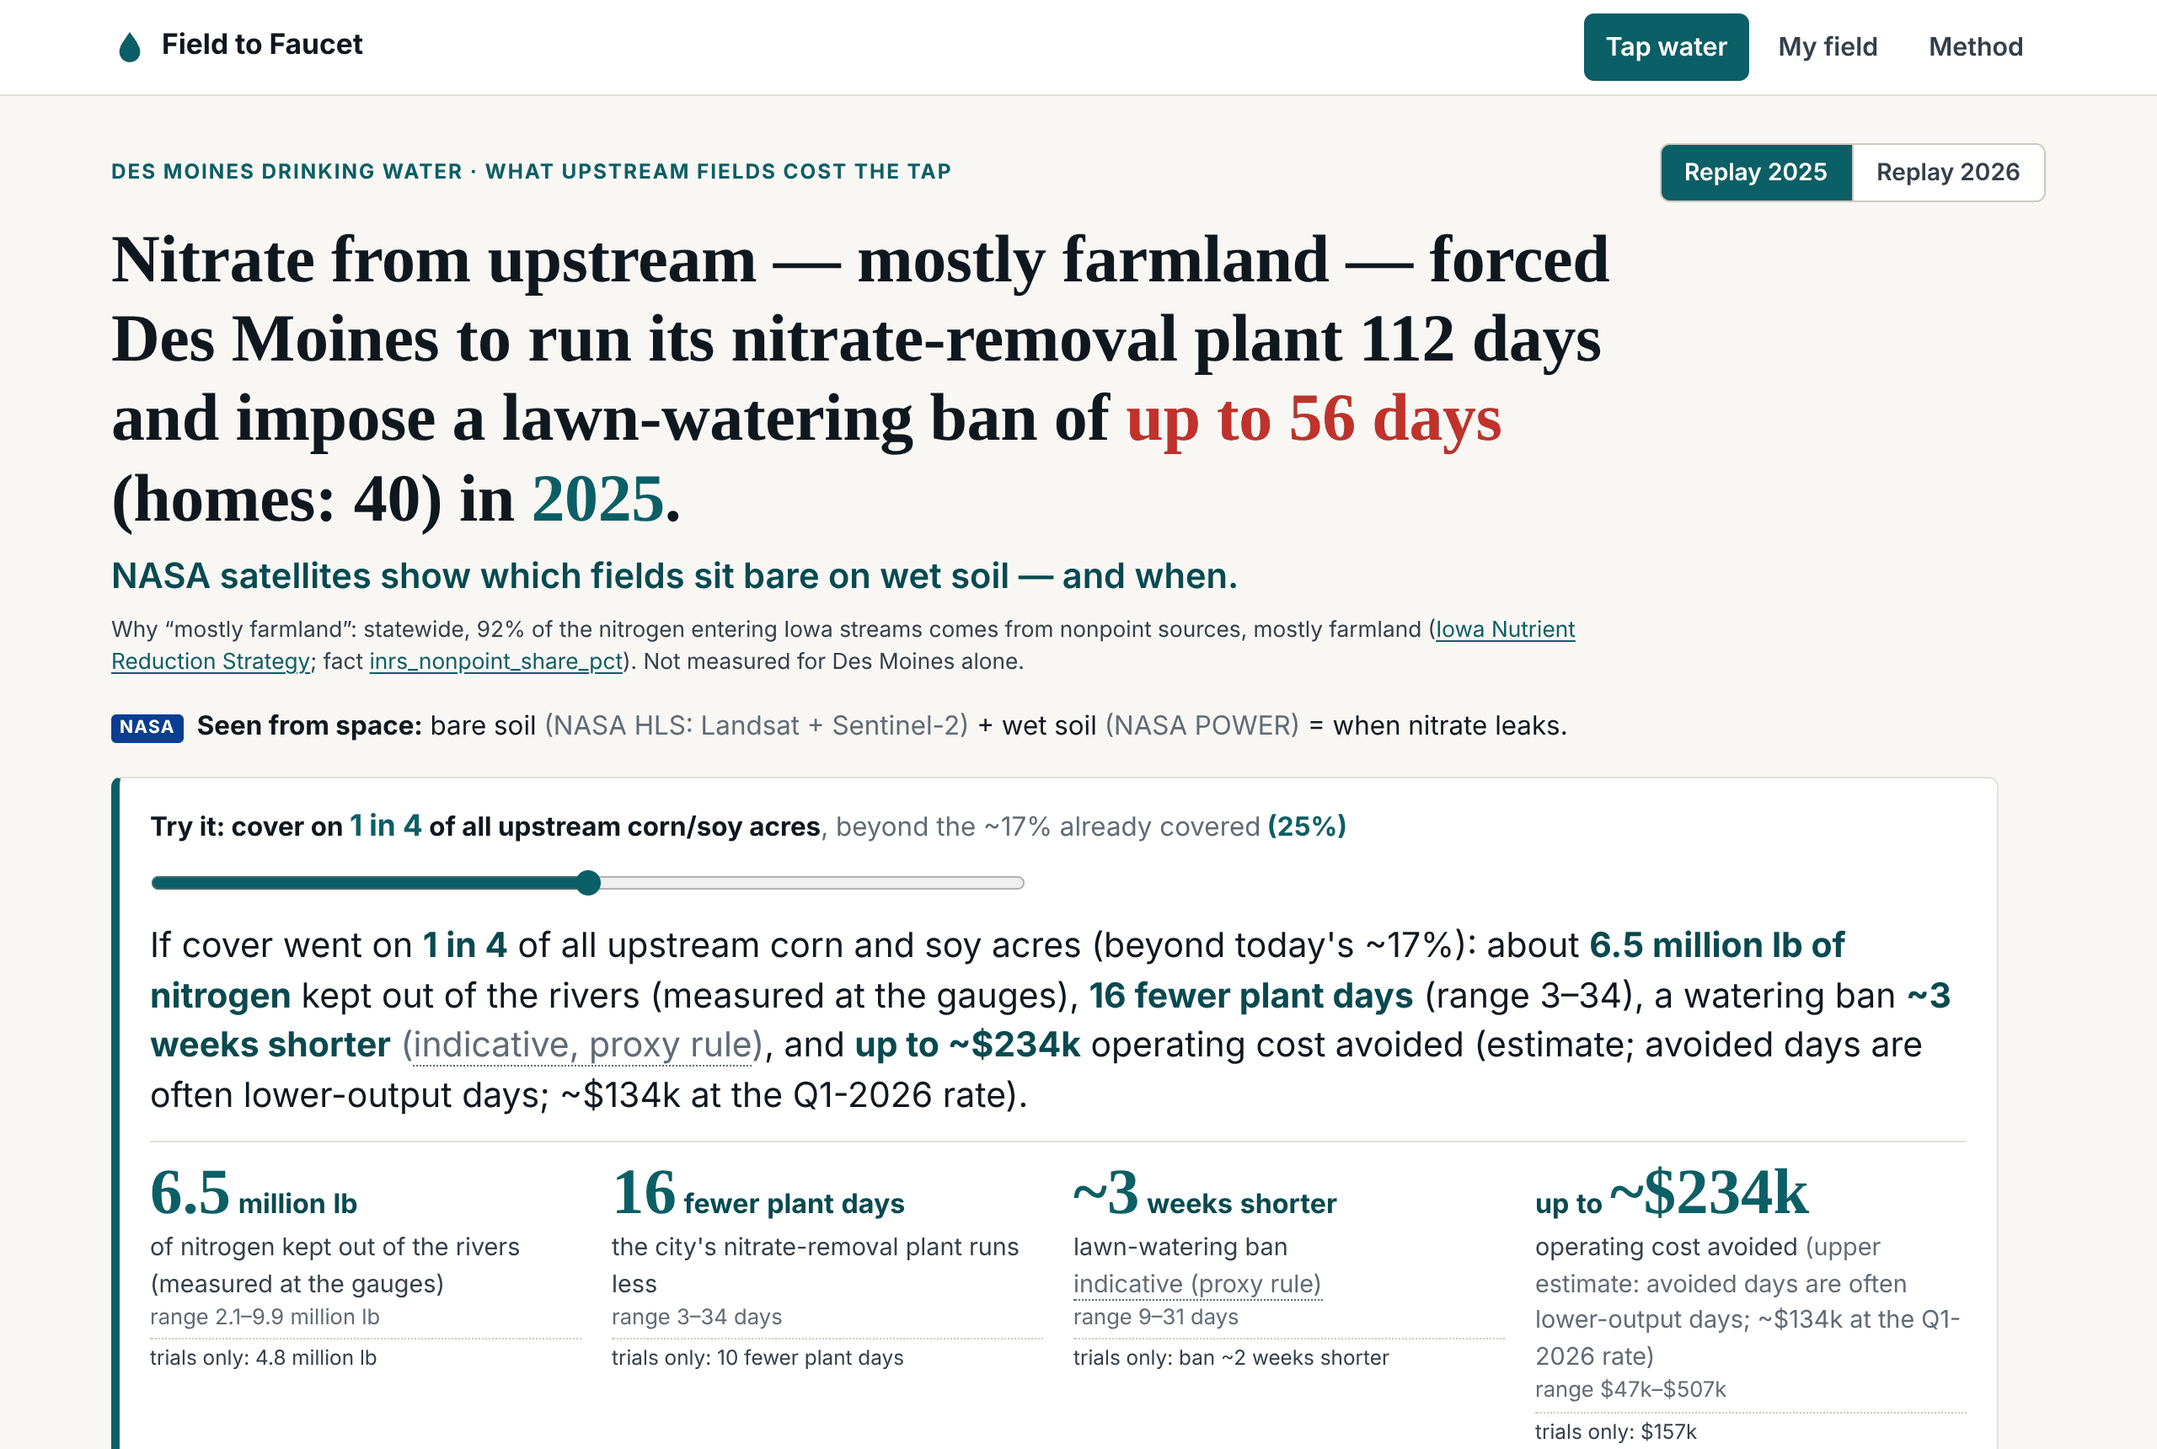
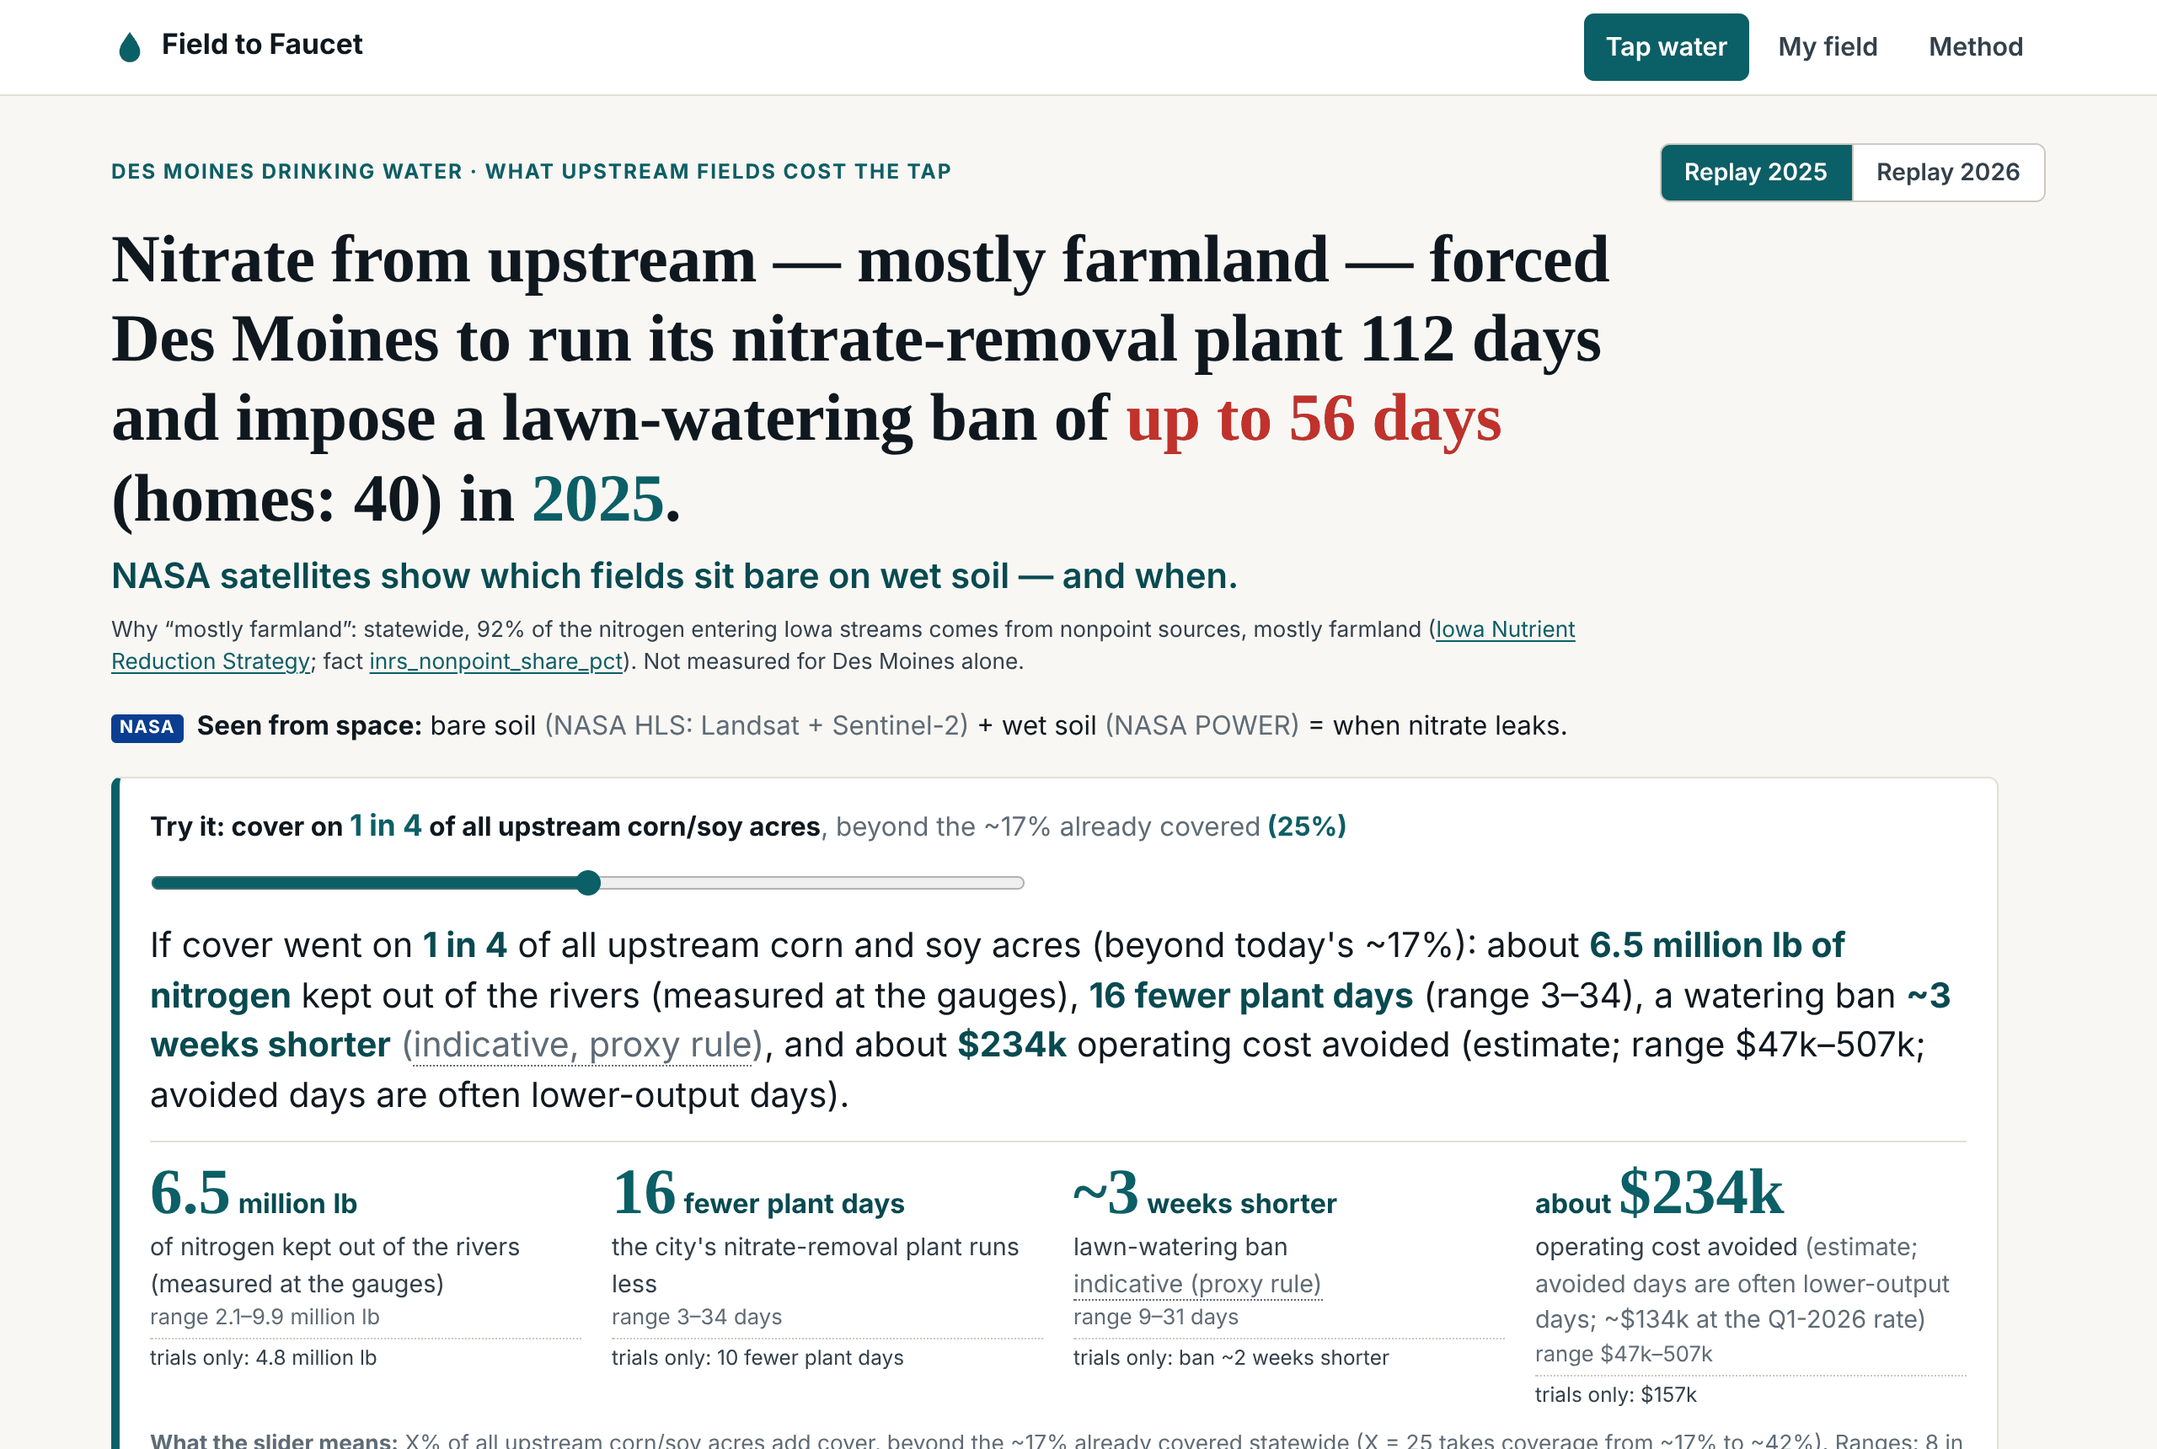
field-to-faucet: final app wording and sourcing fixes from fact-check; regenerated deck screenshots
Claude-Session: https://claude.ai/code/session_01LVZuX6hd4Dk1J7r7Sr4Bx5

Changed region(s): [[0.0625, 0.8012, 0.9062, 1.0], [0.0625, 0.7087, 0.9062, 0.7703]]

diff --git a/apps/field-to-faucet/web/js/city.js b/apps/field-to-faucet/web/js/city.js
@@ -116,6 +116,9 @@ const usdRange = (lo, hi) => {
   return ua === ub && /[kM]/.test(ua) ? `${a.slice(0, -1)}–${b.slice(1)}` : `${a}–${b}`;
 };
 
+// "$47k–507k": unit kept on both ends (avoided-cost ranges)
+const usdRangeK = (lo, hi) => { const a = usd(lo), b = usd(hi); return a === b ? a : `${a}–${b.replace(/^\$/, "")}`; };
+
 // Tooltip that also works on touch (focus) and with keyboard.
 function tip(text, body) {
   return `<span class="tip" tabindex="0">${text}<span class="tip-body" role="tooltip">${body}</span></span>`;
@@ -266,7 +269,7 @@ function renderImpact() {
     text.innerHTML = `Move the slider: what if more upstream corn and soy acres kept living roots over winter?`;
   } else {
     const pdN = Math.round(pd?.mid ?? 0);
-    text.innerHTML = `If cover went on <strong>${shareAsFreq(lvl.x)}</strong> of all upstream corn and soy acres${today != null ? ` (beyond today's ~${today}%)` : ""}: about <strong>${km.n} ${km.u} of nitrogen</strong> kept out of the rivers (measured at the gauges), <strong>${fmtInt(pdN)} fewer plant ${plural(pdN, "day")}</strong>${pd && rangeTxt(pd) ? ` (${rangeTxt(pd)})` : ""}, a watering ban <strong>${bs.n} ${bs.u} shorter</strong> <span class="muted">(${tip("indicative, proxy rule", banTip)})</span>, and <strong>up to ~${usd(cost?.mid)}</strong> operating cost avoided (estimate; avoided days are often lower-output days${costQ1 ? `; ~${usd(costQ1.mid)} at the Q1-2026 rate` : ""}).`;
+    text.innerHTML = `If cover went on <strong>${shareAsFreq(lvl.x)}</strong> of all upstream corn and soy acres${today != null ? ` (beyond today's ~${today}%)` : ""}: about <strong>${km.n} ${km.u} of nitrogen</strong> kept out of the rivers (measured at the gauges), <strong>${fmtInt(pdN)} fewer plant ${plural(pdN, "day")}</strong>${pd && rangeTxt(pd) ? ` (${rangeTxt(pd)})` : ""}, a watering ban <strong>${bs.n} ${bs.u} shorter</strong> <span class="muted">(${tip("indicative, proxy rule", banTip)})</span>, and about <strong>${usd(cost?.mid)}</strong> operating cost avoided (estimate${cost && Math.round(cost.lo) !== Math.round(cost.hi) ? `; range ${usdRangeK(cost.lo, cost.hi)}` : ""}; avoided days are often lower-output days).`;
   }
   const lbRange = (b) => (b && Math.round(b.lo) !== Math.round(b.hi) ? `range ${fmtLbRange(b.lo, b.hi)}` : "");
   const toTxt = {
@@ -279,7 +282,7 @@ function renderImpact() {
     { k: "lbN_kept", b: kept, v: `${km.n}<span class="itile-u"> ${km.u}</span>`, l: "of nitrogen kept out of the rivers (measured at the gauges)", r: lbRange(kept) },
     { k: "plant_days", b: pd, v: `${fmtInt(pd?.mid)}<span class="itile-u"> fewer plant ${plural(pd?.mid ?? 0, "day")}</span>`, l: "the city's nitrate-removal plant runs less", r: rangeTxt(pd) ? `${rangeTxt(pd)} days` : "" },
     { k: "ban_days", b: ban, v: `${bs.n}<span class="itile-u"> ${bs.u} shorter</span>`, l: `lawn-watering ban ${banLabel}`, r: rangeTxt(ban) ? `${rangeTxt(ban)} days` : "" },
-    { k: "cost_usd", b: cost, v: lvl.x > 0 ? `<span class="itile-u">up to </span>~${usd(cost?.mid)}` : usd(cost?.mid), l: `operating cost avoided <span class="muted">(upper estimate: avoided days are often lower-output days${costQ1 && lvl.x > 0 ? `; ~${usd(costQ1.mid)} at the Q1-2026 rate` : ""})</span>`, r: cost ? rangeTxt(cost, usd) : "" },
+    { k: "cost_usd", b: cost, v: lvl.x > 0 ? `<span class="itile-u">about </span>${usd(cost?.mid)}` : usd(cost?.mid), l: `operating cost avoided <span class="muted">(estimate; avoided days are often lower-output days${costQ1 && lvl.x > 0 ? `; ~${usd(costQ1.mid)} at the Q1-2026 rate` : ""})</span>`, r: cost && rangeTxt(cost) ? `range ${usdRangeK(cost.lo, cost.hi)}` : "" },
   ];
   const zero = lvl.x === 0;
   tiles.innerHTML = t.map((x) => {
@@ -295,7 +298,7 @@ function renderImpact() {
   fine.innerHTML = [
     xd ? `<strong>What the slider means:</strong> ${esc(xd)}${/[.!?]$/.test(xd.trim()) ? "" : "."}` : "",
     `Ranges: 8 in 10${isNum(nDraws) ? ` of ${fmtInt(nDraws)}` : ""} simulations${anyTrials ? "; “trials only” = Iowa field-trial evidence alone, without our satellite-trained river model" : ""}.`,
-    `$ = operating cost only${cpd ? ` (plant days × ~${usd(cpd.lo)}–${usd(cpd.hi)} a day: 2025 O&M per run day to full capacity)` : ""}, an upper estimate because the days avoided are often partial-output days${th.cost_per_plant_day_q1_2026?.value ? ` (CIWW's Q1-2026 average was ~${usd(th.cost_per_plant_day_q1_2026.value)} a day)` : ""}; capital is not avoided.`,
+    `$ = operating cost only${cpd ? ` (plant days × ~${usd(cpd.lo)}–${usd(cpd.hi)} a day: 2025 O&M per run day to full capacity)` : ""}; the days avoided are often partial-output days, so the true saving may be lower${th.cost_per_plant_day_q1_2026?.value ? ` (CIWW's Q1-2026 average was ~${usd(th.cost_per_plant_day_q1_2026.value)} a day)` : ""}; capital is not avoided.`,
     cover ? `Today about ${Math.round(cover.value)}% of Iowa corn and soy acres have cover (${link(cover.url, cover.source || "source")}).` : "",
     `NASA HLS sees winter cover on only ~${Math.round(hs.lo) === Math.round(hs.hi) ? fmtInt(hs.lo) : `${fmtInt(hs.lo)}–${fmtInt(hs.hi)}`}% of focus-area fields: a lower bound, because small or late-planted covers aren't visible from space.`,
     "The river may take more than one season to respond (nitrate stored in soils).",
@@ -339,7 +342,7 @@ function renderKpis() {
   const lede = document.getElementById("city-lede");
   const partial = obs.partial_year_through ? ` ${YEAR} is a partial year (data through ${fmtDate(parseDate(obs.partial_year_through))}).` : "";
   lede.innerHTML = isNum(obs.days_over10) && isNum(measured)
-    ? `In ${YEAR} the ${esc(gauge)} (upstream of the intake) was above the 10 mg/L drinking-water limit on ${fmtInt(obs.days_over10)} of ${fmtInt(measured)} measured days, ${naturalFreq(obs.days_over10, measured)}. That limit applies to drinking water: the utility treated the water so the tap met the standard.${partial} NASA satellites show when upstream fields sit bare on wet soil — when nitrate can wash out.`
+    ? `In ${YEAR} the ${esc(gauge)} (upstream of the intake) was above the 10 mg/L drinking-water limit on ${fmtInt(obs.days_over10)} of ${fmtInt(measured)} measured days, ${naturalFreq(obs.days_over10, measured)}.${partial} NASA satellites show when upstream fields sit bare on wet soil — when nitrate can wash out.`
     : "";
 }
 

diff --git a/apps/field-to-faucet/model/m08_export_web.py b/apps/field-to-faucet/model/m08_export_web.py
@@ -420,7 +420,7 @@ def export_meta(dm, river_end, scen, sizes):
              url="https://www.extension.iastate.edu/agdm/"),
     ]
     caveats = [
-        "The river model explains normal years well (test NSE about 0.6) but badly misses the 2025-26 level: rivers carried about twice the nitrate the drivers explain, likely legacy nitrate after the 2020-23 drought. Scenarios therefore change the MEASURED series by a relative amount; the model's absolute 2025 level is never used for impact counts.",
+        "The river model explains normal years well (test NSE about 0.6) but badly misses the 2025-26 level: rivers carried about twice the nitrate the drivers explain, one hypothesis: nitrate left over after the 2020-2023 drought. Scenarios therefore change the MEASURED series by a relative amount; the model's absolute 2025 level is never used for impact counts.",
         "Scenario effects combine Iowa field trials (cereal rye: 28% average cut, SD 26) with the learned river response to less bare soil, which is weakly identified because past cover changes were mostly seasonal. Ranges are 8 in 10 of the simulated outcomes.",
         "Legacy nitrate: a change on fields takes more than one season to show in the river.",
         "Cover-crop adoption is already about 17% of Iowa corn and soybean acres (statewide, secondary source); the slider adds acres on top, assuming adopters are typical fields.",

diff --git a/apps/field-to-faucet/notes/frontend.md b/apps/field-to-faucet/notes/frontend.md
@@ -42,14 +42,14 @@ First view (`#city`, network idle, uncompressed from `http.server`): 28 requests
   `Nitrate from upstream — mostly farmland — forced Des Moines to run its nitrate-removal plant [a record] N days [(Jan–Jul)] and impose a lawn-watering ban of up to 56 days (homes: 40) in 2025.` + second line `NASA satellites show which fields sit bare on wet soil — and when.`
   - 2026 (ban fact label names the business count): `… a record 193 days (Jan–Jul) and impose a lawn-watering ban of 23 days for homes, 42 for businesses, in 2026.` The run-month span comes from the plant fact's dates, partial years only.
   - Source note under the h1 (`#city-h-src`): "Why 'mostly farmland': statewide, 92% of the nitrogen entering Iowa streams comes from nonpoint sources, mostly farmland (INRS; fact inrs_nonpoint_share_pct). Not measured for Des Moines alone." Never attribute the plant days to "bare fields" directly.
-  - Gauge 05484500 is the Raccoon River at Van Meter, upstream of the intake: never "at the intake". The 10 mg/L limit is a drinking-water standard; the tap met it.
+  - Gauge 05484500 is the Raccoon River at Van Meter, upstream of the intake: never "at the intake". The 10 mg/L limit is a drinking-water standard. Do not claim the tap met it (no stored source).
 - **NASA one-liner** above the slider: "Seen from space: bare soil (NASA HLS: Landsat + Sentinel-2) + wet soil (NASA POWER) = when nitrate leaks."
-- **Impact card**: label "Try it: cover on 1 in 4 of all upstream corn/soy acres, beyond the ~17% already covered (25%)" (17% = fact `iowa_cover_share_pct`). Sentence and 4 tiles in this order: nitrogen "kept out of the rivers (measured at the gauges)" (`avoided.lbN_kept`; a gauge load, not on-field retention), plant days ("16 fewer plant days"), ban ("~3 weeks shorter", weeks when ≥ 10.5 days, otherwise days, pluralised), "up to ~$X" operating cost avoided (upper estimate: avoided days are often lower-output days; lower check `avoided.cost_usd_q1_2026_rate` at CIWW's Q1-2026 ~$8.4k/run day). Under each tile a "trials only: …" line from `levels[x].trials_only.avoided` when present. Ban label has the proxy-rule tooltip (clamped to the viewport by `initTips`). Fine print: `x_definition`, n_draws, $/day, today's cover, HLS winter-cover detection (~1–4% of focus-area fields, a lower bound; from `scenarios.hls_winter_cover_pct` / fact `hls_winter_cover_pct` if exported, else the fields-module rate), legacy-N lag. Sliders carry `aria-valuetext`; only `#impact-text` is `aria-live`.
+- **Impact card**: label "Try it: cover on 1 in 4 of all upstream corn/soy acres, beyond the ~17% already covered (25%)" (17% = fact `iowa_cover_share_pct`). Sentence and 4 tiles in this order: nitrogen "kept out of the rivers (measured at the gauges)" (`avoided.lbN_kept`; a gauge load, not on-field retention), plant days ("16 fewer plant days"), ban ("~3 weeks shorter", weeks when ≥ 10.5 days, otherwise days, pluralised), "about $X operating cost avoided (estimate; range $lo–hi)", with the note that avoided days are often lower-output days (tile adds the lower check `avoided.cost_usd_q1_2026_rate` at CIWW's Q1-2026 ~$8.4k/run day). Under each tile a "trials only: …" line from `levels[x].trials_only.avoided` when present. Ban label has the proxy-rule tooltip (clamped to the viewport by `initTips`). Fine print: `x_definition`, n_draws, $/day, today's cover, HLS winter-cover detection (~1–4% of focus-area fields, a lower bound; from `scenarios.hls_winter_cover_pct` / fact `hls_winter_cover_pct` if exported, else the fields-module rate), legacy-N lag. Sliders carry `aria-valuetext`; only `#impact-text` is `aria-live`.
 - **Year switch**: `Replay 2025 | Replay 2026` from `scenarios.replays` ∩ `by_year`; drives hero, KPIs, replay and the river "year" range.
 - **What NASA sees** strip (also on Farmer and Method): HLS, MODIS, NASA POWER (GWETROOT), GPM IMERG, NASADEM, matched by name in `meta.sources`, with links and `data_through`.
 - **KPI strip** ("The Y record, with sources"): days the Raccoon River at Van Meter (upstream of the intake) was above the 10 mg/L drinking-water limit (USGS link), plant days (fact link; 2026 "(Jan–Jul) — longest run on record (previous most: 177 days in 2015)"), cost ("incl. capital" with O&M/capital split; 2026 "$1.6–3.1M (estimate)" = 193 days × ~$8.4k (fact `plant_cost_per_day_2026_q1_usd`, $660k / 79 Q1 run days) to ~$16k/day), ban days (2025 "up to 56 (homes: 40)", 2026 "23 for homes, 42 for businesses"; links the `ban_days_Y` fact), people served.
 - **Replay chart**: "Measured, today's fields" = `replays[Y].obs` (base_kind observed); "With X% more living cover" = `by_level[x]`; teal fill between = "nitrate kept out of the river"; optional checkbox shows the scenario band `by_level_lo/hi`; 10 mg/L line. If a future export has `base_kind` ≠ observed, a dashed model baseline is added. Side tiles: days > 10 avoided (Raccoon, Des Moines), t N kept, lb N kept sentence.
-- **River chart**: display model per site from `river_series.sites[s].model.model` → `display_model` (river_series or validation); legend "Model v2 (+ drought carry-over), median". Above it the honest line, built from validation numbers (mean test NSE of v1 `gbm`, 2025 `level_ratio_obs_over_model` min–max): "The weather-and-cover model explains normal years (test NSE ~0.6) but under-predicted 2025-26 by about 1.7–2.1× — likely nitrate left over after the 2020-23 drought (a hypothesis). That's why impact numbers replay the measured river with relative changes." Caption names USGS + NASA POWER/MODIS/HLS + CDL, and says v2 is post-hoc.
+- **River chart**: display model per site from `river_series.sites[s].model.model` → `display_model` (river_series or validation); legend "Model v2 (+ drought carry-over), median". Above it the honest line, built from validation numbers (mean test NSE of v1 `gbm`, 2025 `level_ratio_obs_over_model` min–max): "The weather-and-cover model explains normal years (test NSE ~0.6) but under-predicted 2025-26 by about 1.7–2.1× — one hypothesis: nitrate left over after the 2020-23 drought. That's why impact numbers replay the measured river with relative changes." Caption names USGS + NASA POWER/MODIS/HLS + CDL, and says v2 is post-hoc.
 - **Outlook**: gauge toggle from `outlook.sites`. Headline "Already above the limit (…). Expect about N of the next 14 days above 10 mg/L" (`expected_days_over10` or Σ prob). Skill line: "No weather forecast used"; 7-day error skill vs persistence; Brier skill at 14 days (< 5% → "no probability skill"). Probability cells beyond the last lead with Brier skill ≥ 5% (from `validation.outlook_skill`) are faded.
 - **Hotspot map**: popup ("Modelled leak", `n_in_basin`) with `maxWidth: min(280px, 80vw)`; list clicks anchor it to the left of the centre on wide maps. Note: "account for about X% of the modelled leak index (not measured)". Attribution starts collapsed; fitBounds has 40 px bottom padding; `cooperativeGestures` on coarse-pointer (touch) devices.
 - **Outlook skill line**: "typical error N% smaller than 'no change' (squared error M%)": N from the h7 RMSEs of gbm vs persistence in `validation.outlook_skill`. Faded (no-skill) probability cells are hatched with ≥ 4.5:1 text, not opacity.
